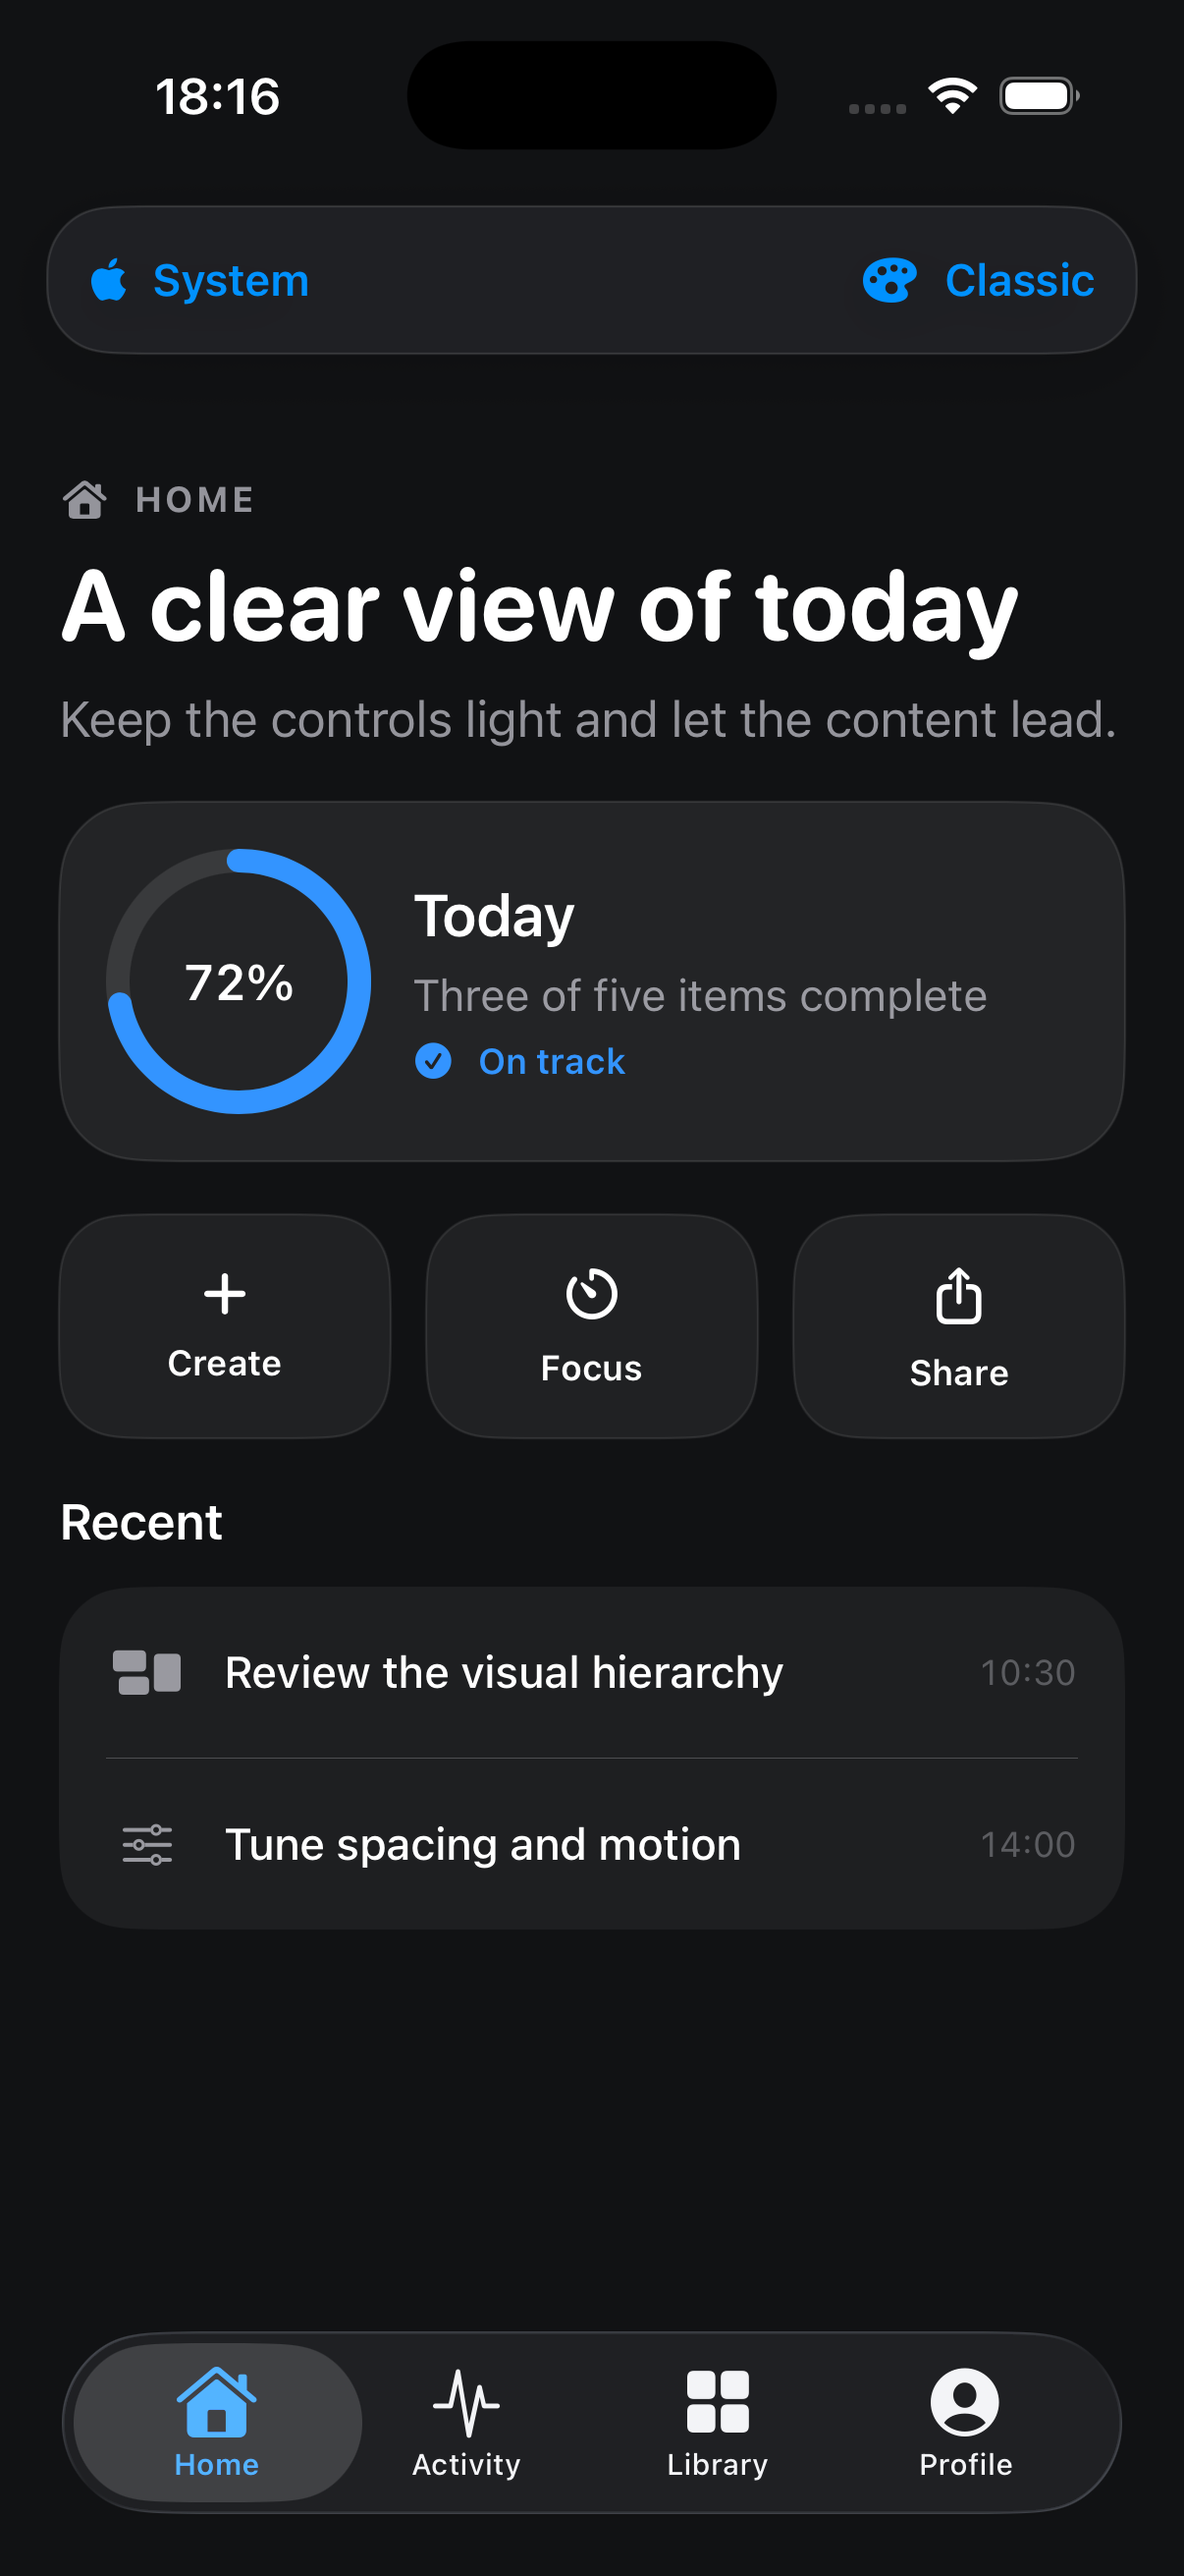
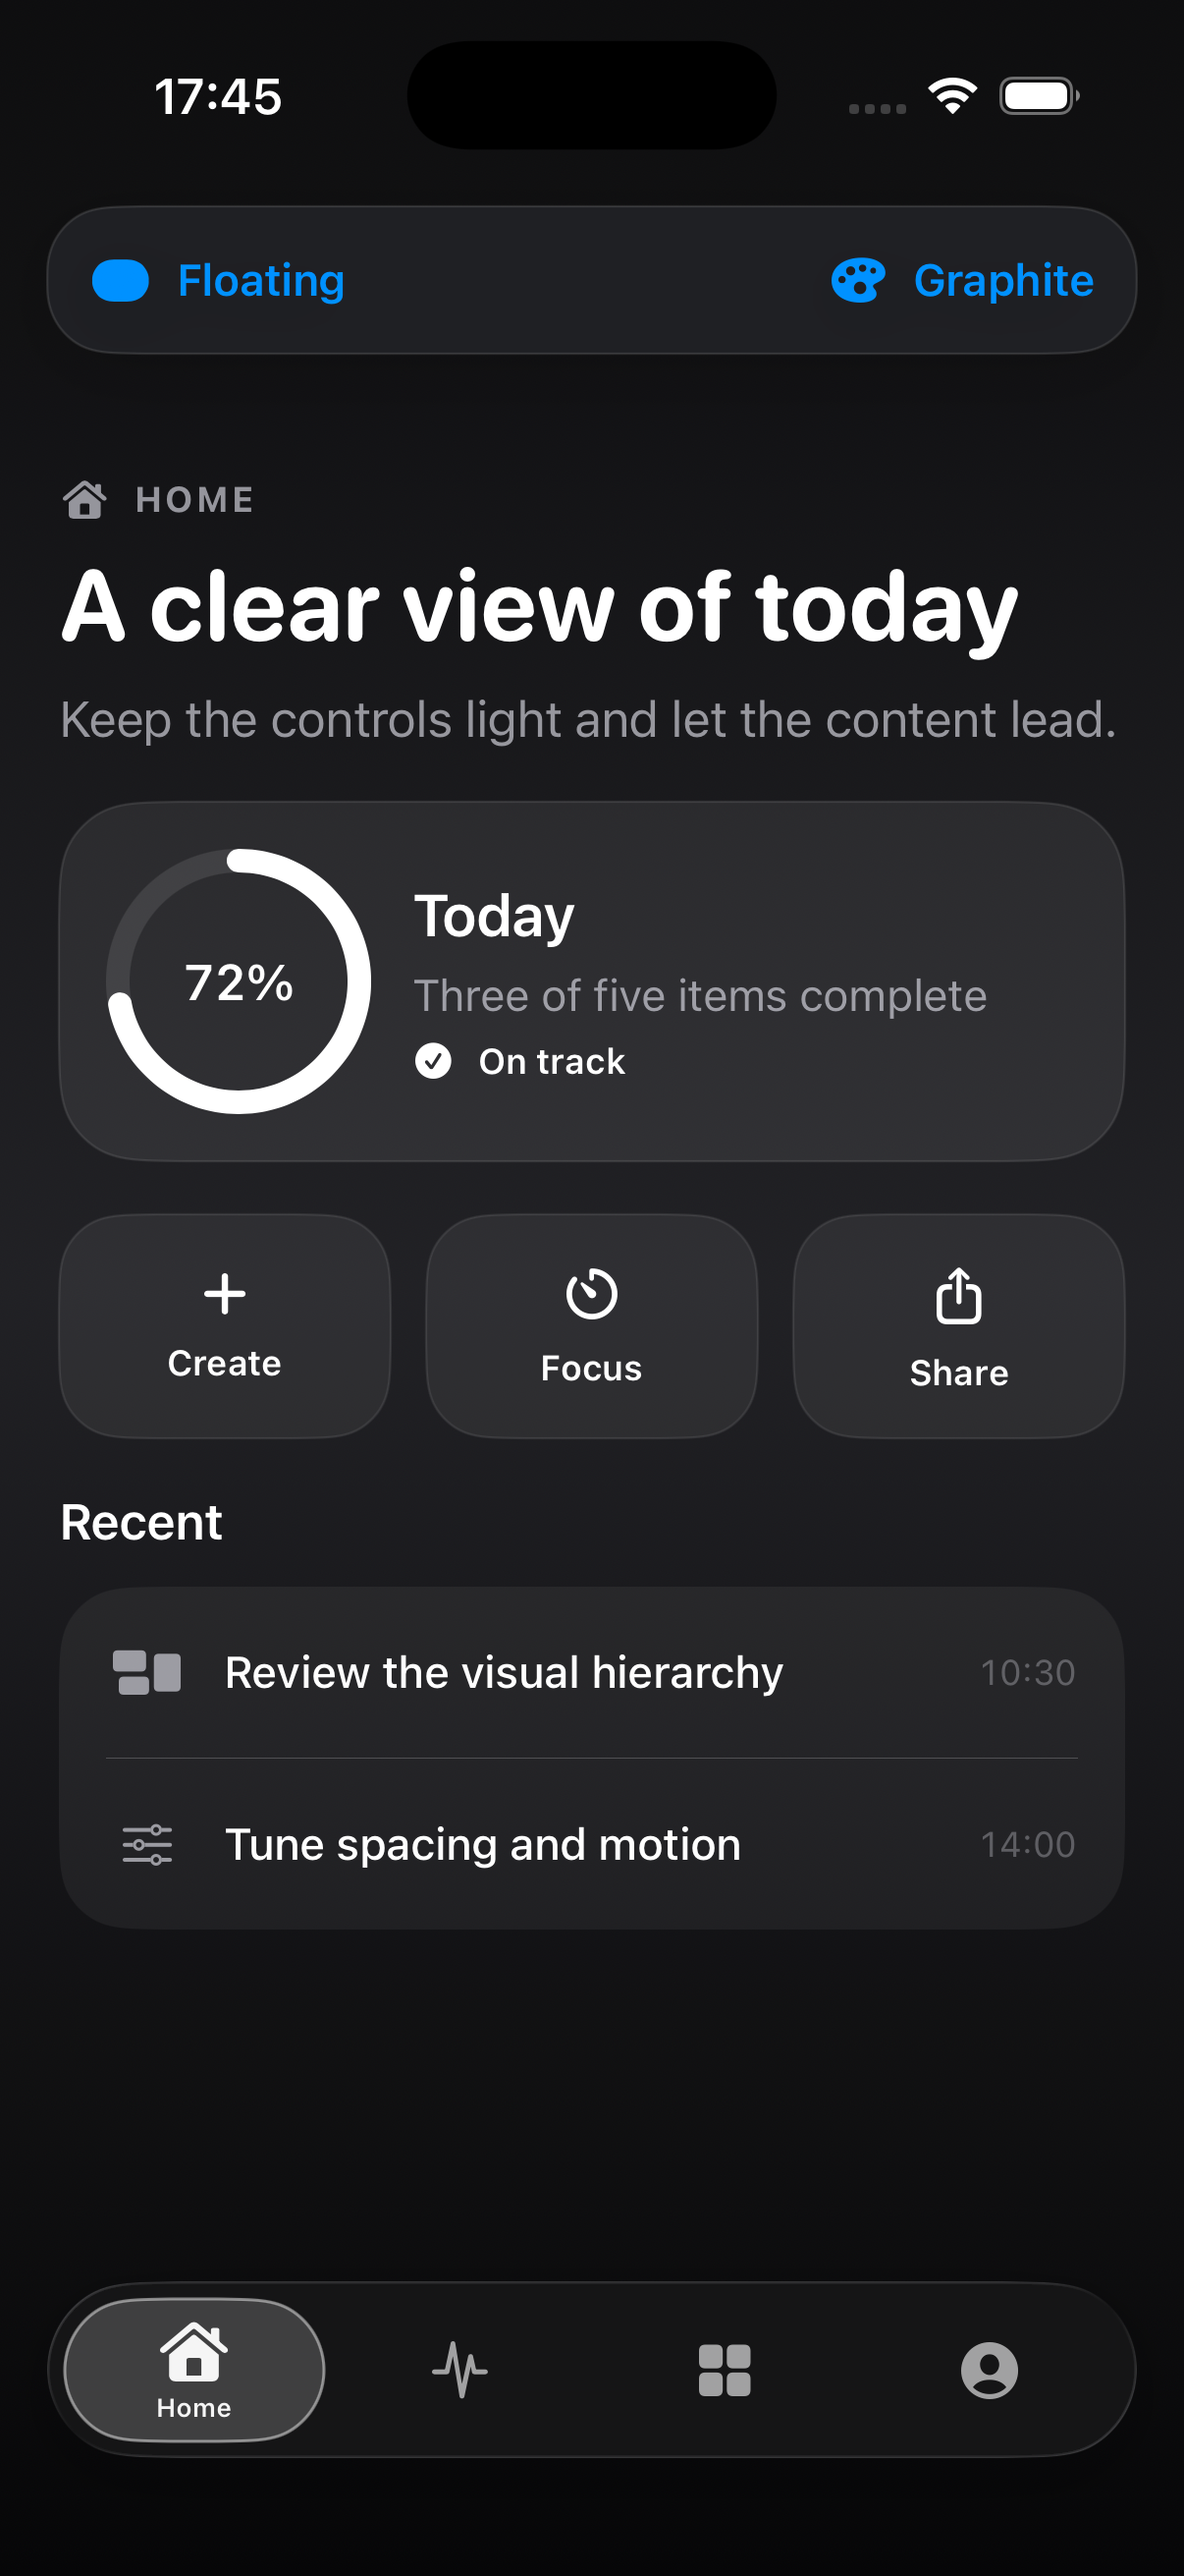
Improve showcase motion and capture

diff --git a/Examples/LiquidGlassDemo/LiquidGlassDemo/DemoRootView.swift b/Examples/LiquidGlassDemo/LiquidGlassDemo/DemoRootView.swift
@@ -1,12 +1,45 @@
 import LiquidUI
 import SwiftUI
+import UIKit
 
 struct DemoRootView: View {
-    @State private var selectedTab: DemoTab = .home
-    @State private var barStyle: DemoBarStyle = .system
-    @State private var palette: DemoPalette = .classic
+    @State private var selectedTab: DemoTab
+    @State private var barStyle: DemoBarStyle
+    @State private var palette: DemoPalette
+    @State private var transitionSnapshot: UIImage?
+    @State private var transitionSnapshotOpacity = 0.0
+    @State private var transitionID = UUID()
 
-    private let showcaseMode = ProcessInfo.processInfo.arguments.contains("--showcase")
+    private let showcaseMode: Bool
+
+    init() {
+        let arguments = ProcessInfo.processInfo.arguments
+
+        let initialTab: DemoTab
+        if arguments.contains("--activity") {
+            initialTab = .activity
+        } else if arguments.contains("--library") {
+            initialTab = .library
+        } else if arguments.contains("--profile") {
+            initialTab = .profile
+        } else {
+            initialTab = .home
+        }
+
+        let initialStyle: DemoBarStyle
+        if arguments.contains("--floating") {
+            initialStyle = .floating
+        } else if arguments.contains("--morphing") {
+            initialStyle = .morphing
+        } else {
+            initialStyle = .system
+        }
+
+        _selectedTab = State(initialValue: initialTab)
+        _barStyle = State(initialValue: initialStyle)
+        _palette = State(initialValue: arguments.contains("--graphite") ? .graphite : .classic)
+        showcaseMode = arguments.contains("--showcase")
+    }
 
     private var items: [LiquidTabItem<DemoTab>] {
         DemoTab.allCases.map(\.liquidItem)
@@ -14,6 +47,9 @@ struct DemoRootView: View {
 
     var body: some View {
         ZStack(alignment: .top) {
+            Color(red: 0.04, green: 0.045, blue: 0.052)
+                .ignoresSafeArea()
+
             if barStyle == .system {
                 systemTabs
             } else {
@@ -27,6 +63,17 @@ struct DemoRootView: View {
         .preferredColorScheme(.dark)
         .task {
             await runShowcaseIfNeeded()
+        }
+        .overlay {
+            if let transitionSnapshot {
+                Image(uiImage: transitionSnapshot)
+                    .resizable()
+                    .scaledToFill()
+                    .ignoresSafeArea()
+                    .opacity(transitionSnapshotOpacity)
+                    .allowsHitTesting(false)
+                    .accessibilityHidden(true)
+            }
         }
     }
 
@@ -88,9 +135,11 @@ struct DemoRootView: View {
         Menu {
             ForEach(DemoBarStyle.allCases) { style in
                 Button {
-                    withAnimation(.spring(response: 0.34, dampingFraction: 0.84)) {
-                        barStyle = style
-                    }
+                    changePresentation(
+                        tab: selectedTab,
+                        style: style,
+                        palette: palette
+                    )
                 } label: {
                     Label(
                         style.title,
@@ -130,50 +179,99 @@ struct DemoRootView: View {
     private func runShowcaseIfNeeded() async {
         guard showcaseMode else { return }
 
-        await pause(nanoseconds: 1_000_000_000)
+        await pause(milliseconds: 2_600)
 
         while !Task.isCancelled {
-            setShowcaseState(tab: .home, style: .system, palette: .classic)
-            await pause(nanoseconds: 1_400_000_000)
+            await pause(milliseconds: 1_600)
 
             withAnimation(.spring(response: 0.32, dampingFraction: 0.84)) {
                 selectedTab = .activity
             }
-            await pause(nanoseconds: 1_100_000_000)
+            await pause(milliseconds: 1_150)
 
-            setShowcaseState(tab: .home, style: .floating, palette: .graphite)
-            await pause(nanoseconds: 1_300_000_000)
+            changePresentation(tab: .home, style: .floating, palette: .graphite)
+            await pause(milliseconds: 1_650)
 
             withAnimation(.spring(response: 0.32, dampingFraction: 0.82)) {
                 selectedTab = .library
             }
-            await pause(nanoseconds: 1_200_000_000)
+            await pause(milliseconds: 1_150)
 
-            setShowcaseState(tab: .activity, style: .morphing, palette: .classic)
-            await pause(nanoseconds: 1_300_000_000)
+            changePresentation(tab: .activity, style: .morphing, palette: .classic)
+            await pause(milliseconds: 1_650)
 
             withAnimation(.spring(response: 0.32, dampingFraction: 0.82)) {
                 selectedTab = .profile
             }
-            await pause(nanoseconds: 1_500_000_000)
+            await pause(milliseconds: 1_150)
+
+            changePresentation(tab: .home, style: .system, palette: .classic)
+            await pause(milliseconds: 600)
         }
     }
 
     @MainActor
-    private func setShowcaseState(
+    private func changePresentation(
         tab: DemoTab,
         style: DemoBarStyle,
         palette: DemoPalette
     ) {
-        withAnimation(.easeInOut(duration: 0.32)) {
+        guard tab != selectedTab || style != barStyle || palette != self.palette else { return }
+
+        guard !UIAccessibility.isReduceMotionEnabled else {
+            selectedTab = tab
+            barStyle = style
+            self.palette = palette
+            return
+        }
+
+        let currentTransitionID = UUID()
+        transitionID = currentTransitionID
+        transitionSnapshot = LiquidWindowSnapshot.capture()
+        transitionSnapshotOpacity = 1
+
+        var transaction = Transaction()
+        transaction.disablesAnimations = true
+        withTransaction(transaction) {
             selectedTab = tab
             barStyle = style
             self.palette = palette
         }
+
+        Task { @MainActor in
+            await pause(milliseconds: 60)
+
+            guard transitionID == currentTransitionID else { return }
+
+            withAnimation(.easeInOut(duration: 0.48)) {
+                transitionSnapshotOpacity = 0
+            }
+
+            await pause(milliseconds: 520)
+
+            guard transitionID == currentTransitionID else { return }
+            transitionSnapshot = nil
+        }
     }
 
-    private func pause(nanoseconds: UInt64) async {
-        try? await Task.sleep(nanoseconds: nanoseconds)
+    private func pause(milliseconds: UInt64) async {
+        try? await Task.sleep(nanoseconds: milliseconds * 1_000_000)
+    }
+}
+
+@MainActor
+private enum LiquidWindowSnapshot {
+    static func capture() -> UIImage? {
+        let window = UIApplication.shared.connectedScenes
+            .compactMap { $0 as? UIWindowScene }
+            .flatMap(\.windows)
+            .first(where: \.isKeyWindow)
+
+        guard let window else { return nil }
+
+        return UIGraphicsImageRenderer(bounds: window.bounds).image { _ in
+            window.drawHierarchy(in: window.bounds, afterScreenUpdates: false)
+        }
     }
 }
 

diff --git a/CHANGELOG.md b/CHANGELOG.md
@@ -2,6 +2,14 @@
 
 All notable changes will be documented here.
 
+## 1.0.1
+
+### Changed
+
+- Re-recorded the showcase at 20 fps with deterministic launch states.
+- Added smooth structural transitions without blank intermediate frames.
+- Regenerated all README screenshots from stable, non-animated states.
+
 ## 1.0.0
 
 ### Added
